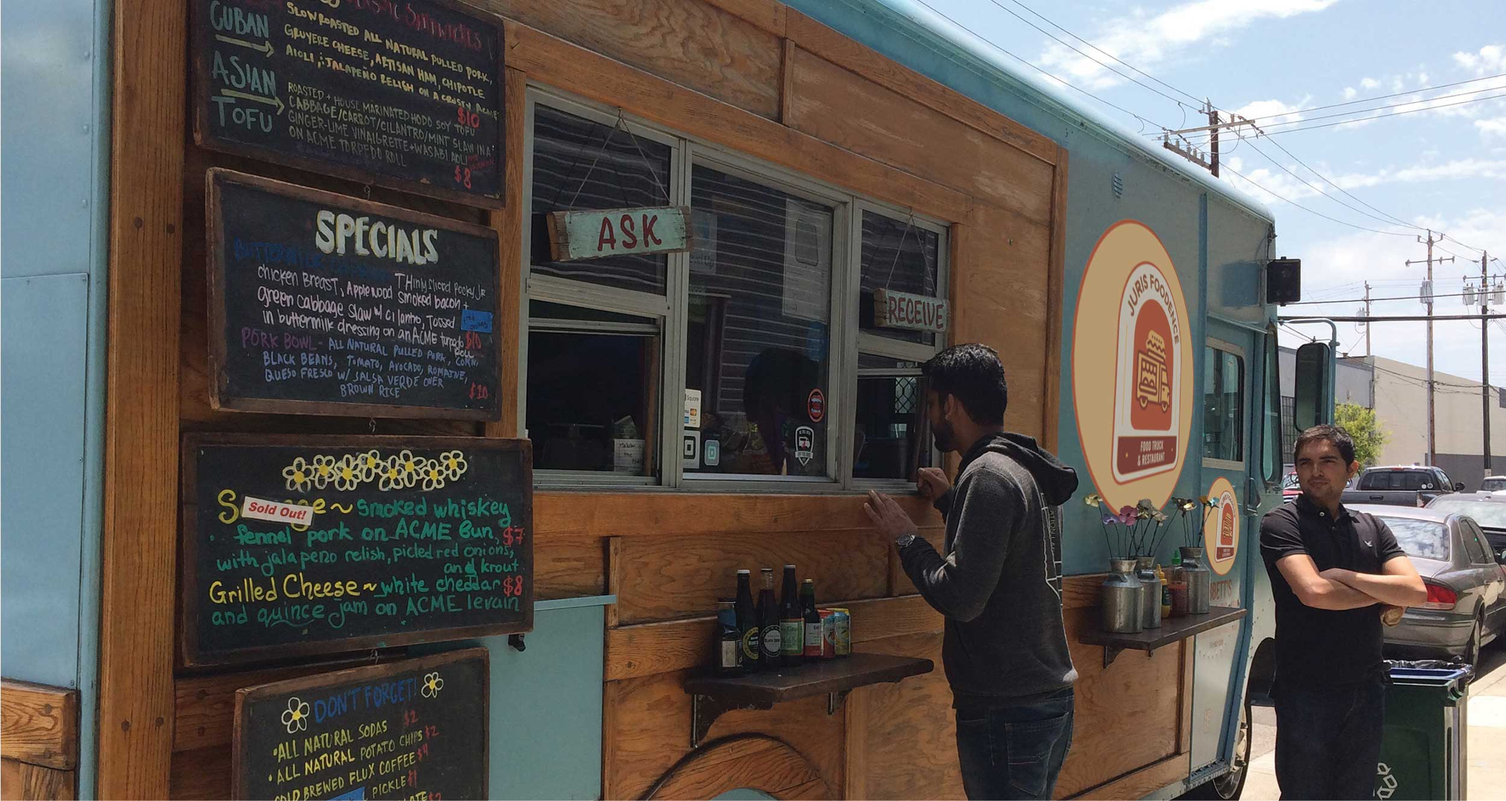
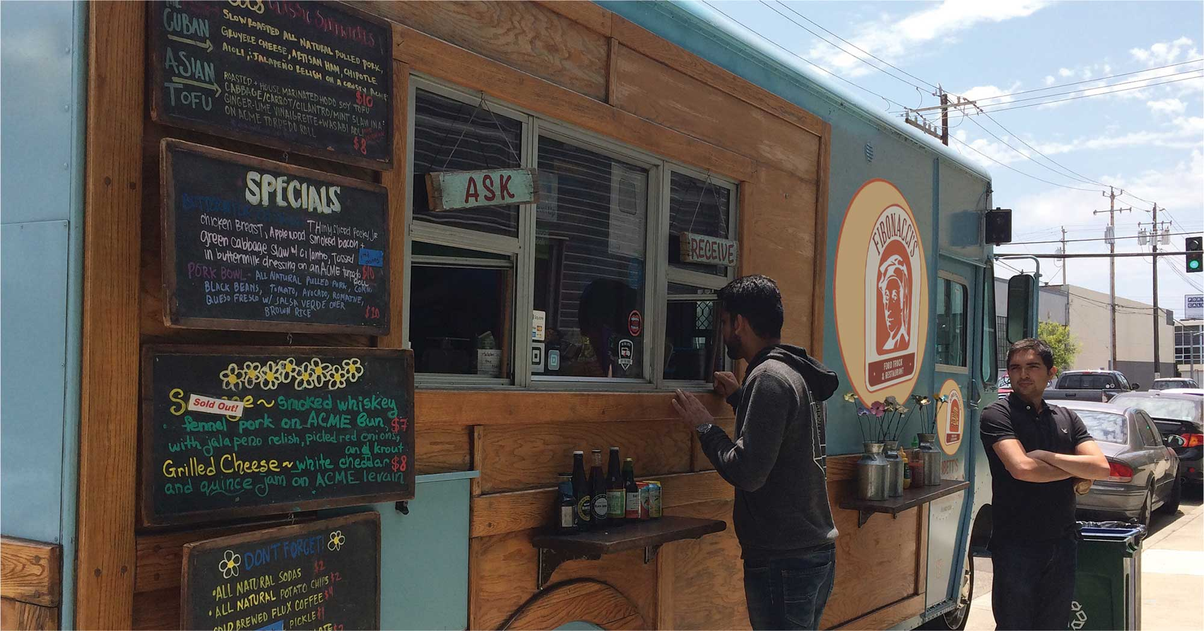
update brand

diff --git a/index.html b/index.html
@@ -4,7 +4,7 @@
     <meta charset="UTF-8" />
     <meta http-equiv="X-UA-Compatible" content="IE=edge" />
     <meta name="viewport" content="width=device-width, initial-scale=1.0" />
-    <title>Juris Foodence | Jack Hoki</title>
+    <title>Fibonacci’s | Paulo Delfino</title>
 
     <!-- CSS link -->
     <link rel="stylesheet" href="./css/style.css" />
@@ -35,7 +35,7 @@
       <div class="heroContent">
         <div class="logo">
           <a href="#">
-            <img src="./assets/images/logo.png" alt="logo" />
+            <img src="./assets/images/logo.png" alt="Restaurant Logo" />
           </a>
         </div>
         <button class="placeOrderBtn">PLACE ORDER</button>
@@ -49,21 +49,24 @@
         <div class="aboutContent">
           <h1>About Us</h1>
           <p>
-            A man walked into a bar with his alligator and asked the bartender,
-            "Do you serve lawyers here?" "Sure do," replied the bartender.
-            "Good," said the man. "Give me a beer and I'll have a lawyer for my
-            gator."
+            What’s so great about a mathematician from the Middle Ages?
+            Fibonacci created the coolest sequence of numbers in history, where
+            each one equals the sum of the two numbers before it (1, 1, 2, 3, 5,
+            8 - you get it). A thousand years since his death, people have
+            noticed this sequence in nature, applied it in business and
+            architecture, and created music inspired by its pattern. We think
+            that’s pretty cool!
           </p>
           <p>
-            For the last 3 years, Juris Foodence has served lawyers as well as
-            judges, plaintiffs, defendants, and anyone else who enjoys great
-            food with an even greater pun. We have expanded from our location
-            near the courthouse to a new moving violation - our food truck!
+            For the last 3 years, Fibonacci’s has served a sequence of good food
+            to anyone who enjoys a nerdy pun. Now we are expanding to bring you
+            a food truck! Enjoy Fibonacci’s at local events or book us for a
+            neighborhood visit or special occasion.
           </p>
           <p class="boldPara">
-            Juris Foodence is owned by Jack Hoki and was inspired by his father
-            Bob, a retired judge who ruled with wisdom on the bench and a wacky
-            sense of humor everywhere else.
+            Fibonacci’s is owned by Paula Delfino and inspired by her father
+            Raul, a retired teacher who taught with great knowledge in the
+            classroom and a wacky sense of humor everywhere else.
           </p>
         </div>
         <div class="aboutImg">
@@ -75,68 +78,75 @@
 
     <!-- Menu file starts here -->
     <div class="menuFileContainer" id="menu">
-      <h1 class="fade-in">The Menu File</h1>
+      <h1 class="fade-in">The Fibonacci's Quarterly Menu</h1>
       <div class="menuFile">
         <div class="wrapSheet fade-in">
-          <h2>Wrap Sheet</h2>
+          <h2>Wraps</h2>
           <div class="contentBox">
-            <h4>Double Jeopardy</h4>
+            <h4>The Number 1</h4>
             <p>
               Buffalo chicken, romaine lettuce, tomatoes, carrots, ranch, blue
               cheese
             </p>
           </div>
           <div class="contentBox">
-            <h4>Attorney Client Priv-veg</h4>
+            <h4>The Other Number 1</h4>
             <p>
-              Vegetarian. Hummus, romaine, sun-dried tomatoes, Kalamata olives,
-              feta cheese, tzatziki sauce
+              Vegetarian. Hummus, romaine lettuce, sun-dried tomatoes, Kalamata
+              olives, feta cheese, tzatziki sauce
             </p>
           </div>
           <div class="contentBox">
-            <h4>Solitary</h4>
+            <h4>The Number 2</h4>
             <p>
               Jalapeno tortilla, turkey chili, onions, cheddar cheese, avocado
             </p>
           </div>
           <div class="contentBox">
-            <h4>In Lox-Up</h4>
+            <h4>The Number 3</h4>
             <p>Smoked salmon, cream cheese, cucumber, dill, and baby spinach</p>
           </div>
-          <p class="smallText">
-            *All wraps, except the Solitary, are served on your choice of flour
-            or corn tortilla.
-          </p>
-        </div>
-        <div class="asides fade-in">
           <div class="contentBox">
-            <h4>Hijacked</h4>
+            <h4>The Number 5</h4>
             <p>
               Marinated pork, pickled carrots, cucumber, cilantro, mint, fresno
               chiles, mayonnaise
             </p>
           </div>
-          <h2>Asides</h2>
           <div class="contentBox">
-            <h4>Plaintiff Fries</h4>
+            <h4>The Number 8</h4>
+            <p>
+              Vegetarian. Falafel, red onion, romaine lettuce, tomato, and
+              tzatziki sauce
+            </p>
+          </div>
+          <p class="smallText">
+            *All wraps, except The Number 2 are served on your choice of flour
+            or corn tortilla.
+          </p>
+        </div>
+        <div class="asides fade-in">
+          <h2>Sides</h2>
+          <div class="contentBox">
+            <h4>Sequence Fries</h4>
             <p>Just a side of fries</p>
           </div>
           <div class="contentBox">
-            <h4>Testifries</h4>
+            <h4>3 Cheese fries</h4>
             <p>
               Fries topped with havarti and dill cheese, pastrami, russian
               dressing, pickled onions and peppers, pickled jalapeno
             </p>
           </div>
           <div class="contentBox">
-            <h4>Nacho Guilty</h4>
+            <h4>Golden Ratio</h4>
             <p>
-              Tortilla chips, turkey chili topped with lettuce, pico de gallo,
-              cheese sauce, and sour cream
+              Fries topped with havarti and dill cheese, pastrami, russian
+              dressing, pickled onions and peppers, pickled jalapeno
             </p>
           </div>
           <div class="contentBox">
-            <h4>Chips and Salsa Verdict</h4>
+            <h4>Consecutive Chips</h4>
             <p>Tortilla chips and salsa verde</p>
           </div>
         </div>
@@ -148,11 +158,10 @@
     <div class="jurorsFavoriteContainer">
       <div class="jurorsFavorite">
         <div class="heading fade-in">
-          <h1>The Juror's Favorites</h1>
+          <h1>The Mathematician's Favorites</h1>
           <p>
-            Enjoy Juris Foodence's fan favorite menu items at local events or
-            book us for a visit to your neighborhood or for your special
-            occasion.
+            Enjoy Fibonacci's fan favorite menu items at local events or book us
+            for a visit to your neighborhood or for your special occasion.
           </p>
         </div>
         <div class="foodImages fade-in">
@@ -232,7 +241,7 @@
         <script type="text/javascript">
           document.write(new Date().getFullYear());
         </script>
-        - Jack Hoki, LLC. All Right Reserved
+        - Paulo Delfino, LLC. All Right Reserved
       </p>
     </div>
     <!-- footer ends here -->
